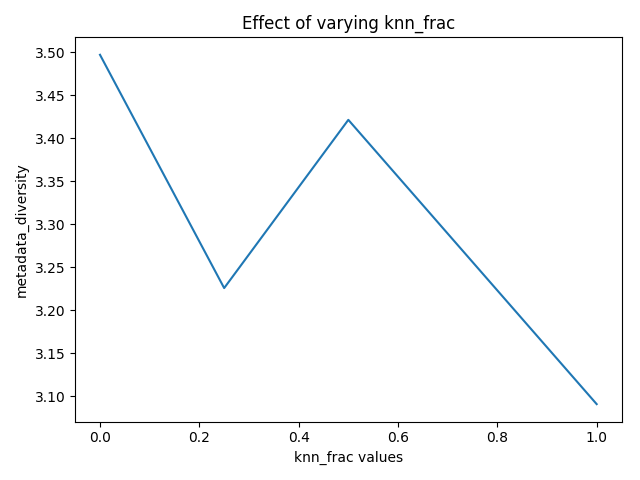
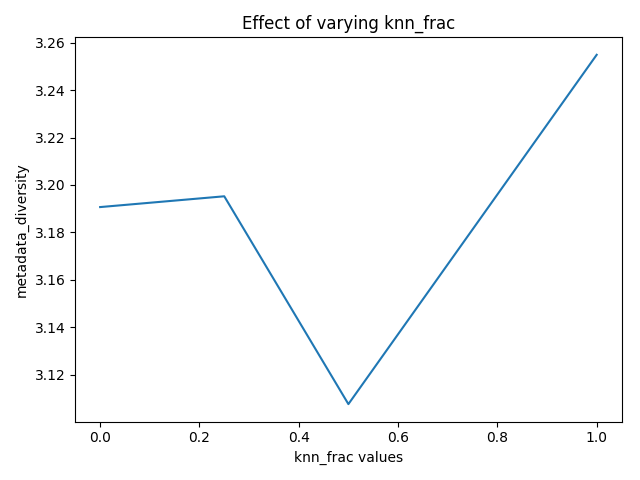
Add 10k line search results

diff --git a/hparam_line_search.py b/hparam_line_search.py
@@ -26,10 +26,10 @@ if __name__ == '__main__':
 
     #order of placement in dictionary matters
     hparam_vals_map = {
-        'k': [50, 100, 200, 500],
-        'max_overlap': [0.05, 0.1, 0.15, 0.2],
-        'knn_frac': [0, 0.25, 0.5, 1],
-        'min_songs': [1, 5, 10, 15],
+        'k': [50, 100, 250, 500, 1000],
+        # 'max_overlap': [0.05, 0.1, 0.15, 0.2],
+        'knn_frac': [0, 0.25, 0.5, 0.75, 1],
+        # 'min_songs': [1, 5, 10, 15],
     }
 
     default_vals = {
@@ -45,13 +45,13 @@ if __name__ == '__main__':
     ]
 
 
-    USER_LIMIT = 10000
+    USER_LIMIT = 9999999
     for hparam_name, hparam_vals in hparam_vals_map.items():
         print(f'\n\nStarting {hparam_name} line search...')
-        start = time.time()
         results = np.zeros((len(metrics_to_get), len(hparam_vals)))
 
         for i, val in enumerate(hparam_vals):
+            start = time.time()
             model_params = {**default_vals, hparam_name: val}
             print(f'Building model with {model_params}')
             model = ALSpkNN(user_df, song_df, **model_params)
@@ -68,6 +68,7 @@ if __name__ == '__main__':
                 limit=USER_LIMIT)
             print(metrics)
             results[:, i] = list(metrics.values())
+            print(f'Evaluating model took {time.time()-start}s')
 
         for i in range(len(metrics_to_get)):
             metric_name = metrics_to_get[i]
@@ -78,6 +79,4 @@ if __name__ == '__main__':
             plt.xlabel(hparam_name + ' values')
             plt.tight_layout()
             plt.savefig(f'figures_10k_N_20/{hparam_name}_{metric_name}')
-            np.save(f'figures_10k_N_20/results_{hparam_name}', results)
-
-        print(f'{hparam_name} line search took {time.time()-start}s')
+            np.save(f'figures_91k_N_20/results_{hparam_name}', results)
